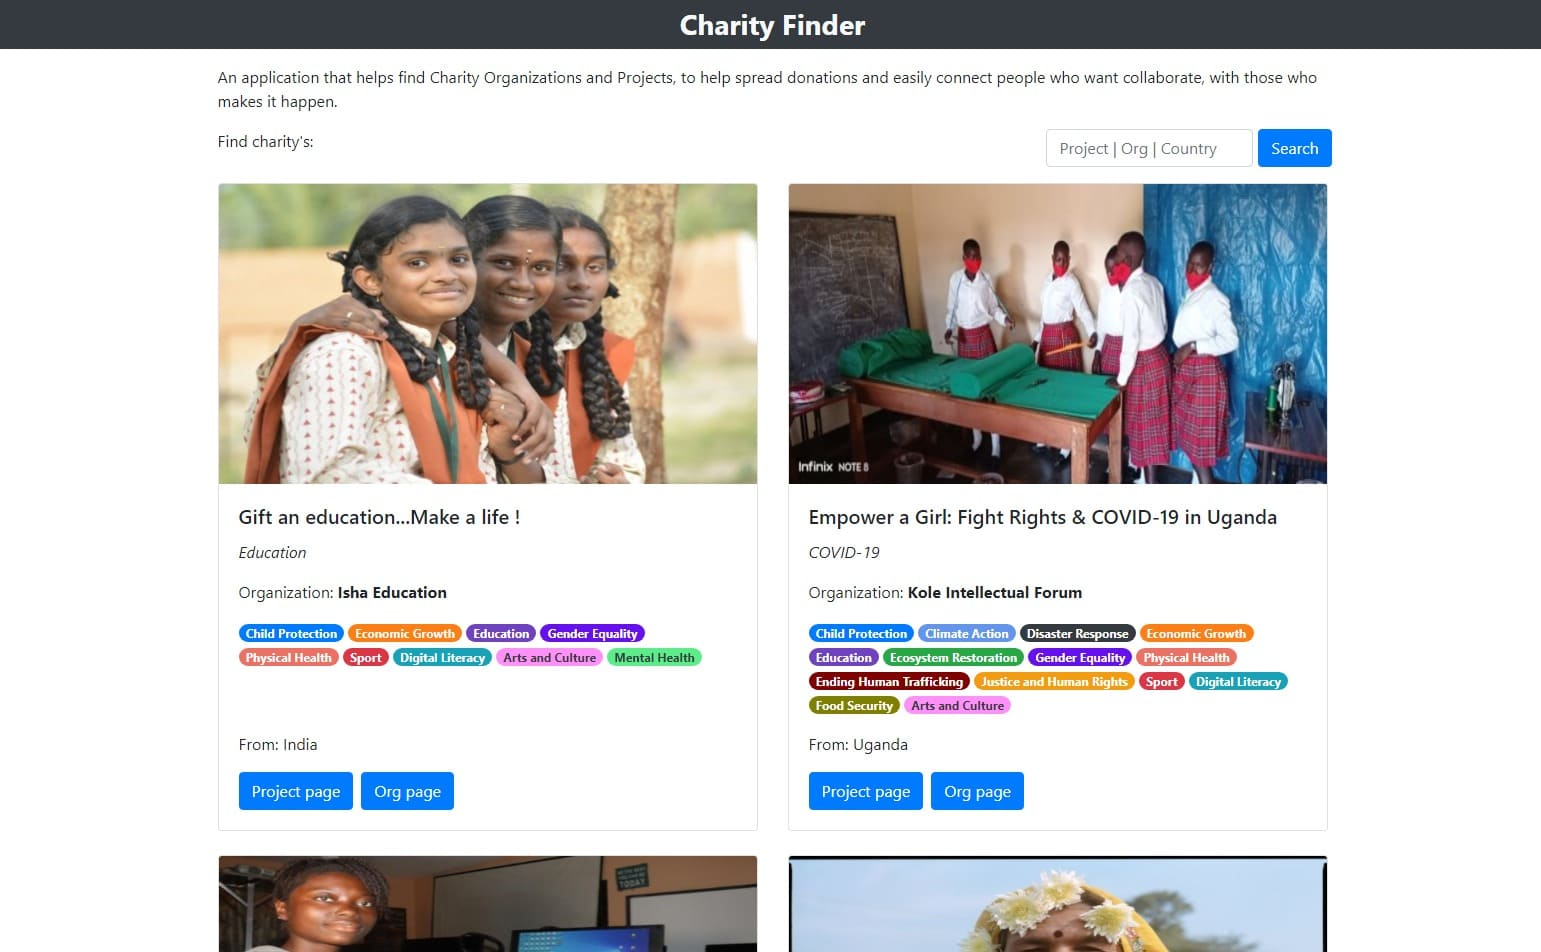
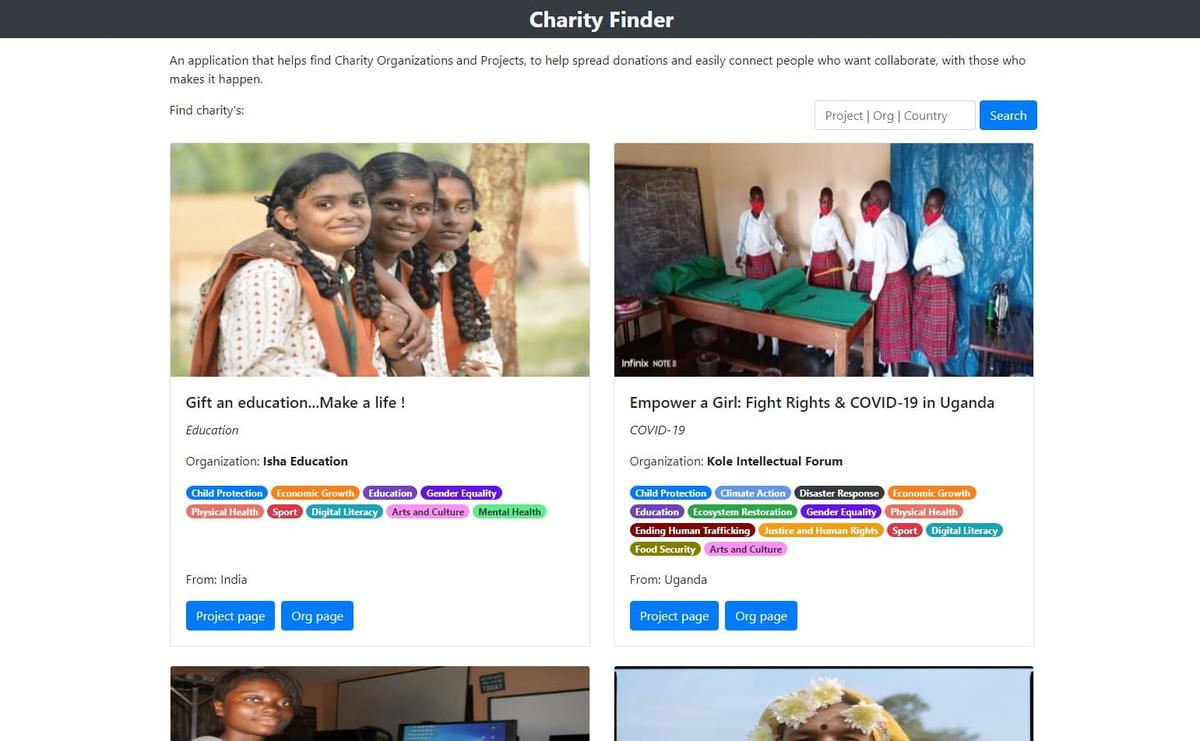
perf: imporoved performance based on lighthouse report

diff --git a/src/app/regular/home/home.component.html b/src/app/regular/home/home.component.html
@@ -1006,12 +1006,15 @@
                 <img [ngSrc]="project.img" [alt]="project.title" [priority]="i === 0" fill />
               </div>
               <div class="text">
-                <h4 class="title">{{ project.title }}</h4>
+                <h3 class="title">{{ project.title }}</h3>
                 <p>{{ project.caption }}</p>
               </div>
             </div>
           }
-          <a class="prev has-dflex-center"
+          <button
+            type="button"
+            class="prev has-dflex-center"
+            [attr.aria-label]="'previousProject' | translate"
             ><svg
             aria-hidden="true"
             focusable="false"
@@ -1025,8 +1028,11 @@
             <path
               fill="currentColor"
               d="M31.7 239l136-136c9.4-9.4 24.6-9.4 33.9 0l22.6 22.6c9.4 9.4 9.4 24.6 0 33.9L127.9 256l96.4 96.4c9.4 9.4 9.4 24.6 0 33.9L201.7 409c-9.4 9.4-24.6 9.4-33.9 0l-136-136c-9.5-9.4-9.5-24.6-.1-34z"
-            ></path></svg></a
-            ><a class="next has-dflex-center"
+            ></path></svg></button
+            ><button
+            type="button"
+            class="next has-dflex-center"
+            [attr.aria-label]="'nextProject' | translate"
             ><svg
             aria-hidden="true"
             focusable="false"
@@ -1041,7 +1047,7 @@
               fill="currentColor"
               d="M224.3 273l-136 136c-9.4 9.4-24.6 9.4-33.9 0l-22.6-22.6c-9.4-9.4-9.4-24.6 0-33.9l96.4-96.4-96.4-96.4c-9.4-9.4-9.4-24.6 0-33.9L54.3 103c9.4-9.4 24.6-9.4 33.9 0l136 136c9.5 9.4 9.5 24.6.1 34z"
             ></path></svg
-          ></a>
+          ></button>
         </div>
         <a routerLink="/projects"
           ><button data-cy="see-all" class="btn">

diff --git a/src/app/regular/footer/footer.component.html b/src/app/regular/footer/footer.component.html
@@ -8,8 +8,9 @@
       >
         <img
           class="logo"
-          width="137px"
-          src="./assets/images/logo.png"
+          width="137"
+          height="58"
+          src="./assets/images/logos/samyrdev.webp"
           alt="Samyr dev logo"
         />
       </a>
@@ -32,7 +33,7 @@
           href="https://www.linkedin.com/in/samyr-ribeiro"
           target="_blank"
           class="icon"
-          name="LinkedIn"
+          aria-label="LinkedIn"
           rel="noopener"
         >
           <svg xmlns="http://www.w3.org/2000/svg" viewBox="0 0 128 128">
@@ -46,7 +47,7 @@
           href="https://github.com/SamyrOR"
           target="_blank"
           class="icon"
-          name="GitHub"
+          aria-label="GitHub"
           rel="noopener"
         >
           <svg xmlns="http://www.w3.org/2000/svg" viewBox="0 0 128 128">
@@ -66,7 +67,7 @@
           href="https://pt.stackoverflow.com/users/189079/samyr"
           target="_blank"
           class="icon"
-          name="Stack Overflow"
+          aria-label="Stack Overflow"
           rel="noopener"
         >
           <svg
@@ -84,7 +85,7 @@
           href="https://www.hackerrank.com/saamyr?hr_r=1"
           target="_blank"
           class="icon"
-          name="HackerRank"
+          aria-label="HackerRank"
           rel="noopener"
         >
           <svg
@@ -102,7 +103,7 @@
           href="https://codepen.io/samyror"
           target="_blank"
           class="icon"
-          name="CodePen"
+          aria-label="CodePen"
           rel="noopener"
         >
           <svg

diff --git a/src/assets/styles/modules/_carousel.scss b/src/assets/styles/modules/_carousel.scss
@@ -72,13 +72,19 @@
 
   .prev,
   .next {
-    width: 2rem;
-    height: 2rem;
+    width: 2.75rem;
+    height: 2.75rem;
     padding: 0.3125rem;
     position: absolute;
-    top: calc(50% - 1rem);
+    top: calc(50% - 1.375rem);
     user-select: none;
     font-size: 1rem;
+    background: none;
+    border: none;
+    cursor: pointer;
+    display: flex;
+    align-items: center;
+    justify-content: center;
     @include theme() {
       color: theme-get("color-neutral");
     }
@@ -107,23 +113,36 @@
   }
 
   .dots {
+    position: absolute;
+    top: 0.75rem;
+    left: 0;
+    right: 0;
+    z-index: 1;
     padding: 0.9375rem;
     display: flex;
     align-items: center;
     justify-content: center;
 
     .dot {
-      width: 0.625rem;
-      height: 0.625rem;
-      margin: 0 0.125rem;
-      display: inline-block;
+      width: 1.5rem;
+      height: 1.5rem;
+      display: inline-flex;
+      align-items: center;
+      justify-content: center;
       cursor: pointer;
-      border-radius: 50%;
-      background-color: #bbb;
-      transition: background-color 0.6s ease;
+      background: none;
 
-      &:focus,
-      &:hover {
+      &::before {
+        content: "";
+        width: 0.625rem;
+        height: 0.625rem;
+        border-radius: 50%;
+        background-color: #bbb;
+        transition: background-color 0.6s ease;
+      }
+
+      &:focus::before,
+      &:hover::before {
         background-color: #717171;
       }
     }

diff --git a/src/assets/styles/modules/_card.scss b/src/assets/styles/modules/_card.scss
@@ -1,7 +1,8 @@
 @use "../abstracts/" as *;
 @use "sass:color";
 
-a.btn {
+a.btn,
+span.btn {
   position: relative;
   padding: rem(6) rem(30) rem(8);
   text-decoration: none;
@@ -9,14 +10,17 @@ a.btn {
   transition: all 0.1s 0s ease-out;
 }
 
-.no-touch a.btn:hover {
+.no-touch a.btn:hover,
+.no-touch span.btn:hover {
   box-shadow: 0 rem(8) rem(2) 0 rgba(0, 0, 0, 0.075);
   transform: translateY(-2px);
   transition: all 0.25s 0s ease-out;
 }
 
 .no-touch a.btn:active,
-a.btn:active {
+a.btn:active,
+.no-touch span.btn:active,
+span.btn:active {
   box-shadow: 0 rem(1) 0 0 rgba(255, 255, 255, 0.25);
   transform: translate3d(0, 1px, 0);
   transition: all 0.025s 0s ease-out;
@@ -72,7 +76,7 @@ div.card {
       background-color: theme-get("color-card-bg");
     }
 
-    a.toggle-info {
+    .toggle-info {
       position: absolute;
       top: rem(10);
       right: rem(15);
@@ -174,7 +178,7 @@ div.card.show {
   div.card-title {
     border-bottom-left-radius: 0;
     border-bottom-right-radius: 0;
-    a.toggle-info {
+    .toggle-info {
       background: $salmon;
       span {
         top: rem(15);

diff --git a/src/app/regular/header/header.component.ts b/src/app/regular/header/header.component.ts
@@ -68,14 +68,14 @@ export class HeaderComponent implements OnInit {
       document.documentElement.classList.remove('light-theme');
       document.documentElement.classList.add('dark-theme');
       this.logos.forEach((logo) =>
-        logo.setAttribute('src', './assets/images/logos/samyrdev-dark.png'),
+        logo.setAttribute('src', './assets/images/logos/samyrdev-dark.webp'),
       );
     } else {
       this.transition();
       document.documentElement.classList.add('light-theme');
       document.documentElement.classList.remove('dark-theme');
       this.logos.forEach((logo) =>
-        logo.setAttribute('src', './assets/images/logos/samyrdev.png'),
+        logo.setAttribute('src', './assets/images/logos/samyrdev.webp'),
       );
     }
     localStorage.setItem('selected-theme', this.isDarkTheme() ? 'dark' : 'light');

diff --git a/src/app/projects/projects.component.html b/src/app/projects/projects.component.html
@@ -25,10 +25,10 @@
               <img class="card__image" [ngSrc]="project.img" [alt]="project.title" [priority]="i === 0" fill />
             </div>
             <div class="card-title">
-              <a class="toggle-info btn">
+              <span class="toggle-info btn" aria-hidden="true">
                 <span class="left"></span>
                 <span class="right"></span>
-              </a>
+              </span>
               <h2>
                 {{ project.title }}
                 <small>{{ project.caption }}</small>

diff --git a/src/index.html b/src/index.html
@@ -43,7 +43,7 @@
     <link rel="preconnect" href="https://fonts.googleapis.com" />
     <link rel="preconnect" href="https://fonts.gstatic.com" crossorigin />
     <link
-      href="https://fonts.googleapis.com/css2?family=Montserrat&display=swap"
+      href="https://fonts.googleapis.com/css2?family=Montserrat&display=optional"
       rel="stylesheet"
     />
   </head>

diff --git a/src/app/regular/header/header.component.html b/src/app/regular/header/header.component.html
@@ -3,8 +3,9 @@
     <a [routerLink]="['/home']" routerLinkActive="active">
       <img
         class="logo"
-        width="137px"
-        src="./assets/images/logos/samyrdev.png"
+        width="137"
+        height="58"
+        src="./assets/images/logos/samyrdev.webp"
         alt="Samyr dev logo"
       />
     </a>

diff --git a/src/app/about-me/about-me.component.html b/src/app/about-me/about-me.component.html
@@ -5,6 +5,8 @@
         class="profile__img"
         src="../../assets/images/img-perfil.jpg"
         alt="Perfil"
+        width="200"
+        height="211"
       />
       <h3 data-cy="title" class="profile__name">Samyr Oliveira Ribeiro</h3>
       <p class="profile__desc">Front-end developer</p>

diff --git a/src/assets/styles/modules/_buttons.scss b/src/assets/styles/modules/_buttons.scss
@@ -10,7 +10,9 @@
   font-weight: 600;
   border-radius: rem(25);
   border: none;
-  transition: all 250ms ease-out;
+  transition:
+    transform 250ms ease-out,
+    opacity 250ms ease-out;
   @include theme() {
     background: linear-gradient(
       to top right,

diff --git a/src/assets/styles/layout/_certificate.scss b/src/assets/styles/layout/_certificate.scss
@@ -37,6 +37,9 @@
   }
   &__img {
     margin-top: rem(20);
+    width: 100%;
+    aspect-ratio: 4 / 3;
+    object-fit: contain;
     @include sm {
       max-width: rem(480);
     }

diff --git a/src/assets/styles/layout/_footer.scss b/src/assets/styles/layout/_footer.scss
@@ -85,6 +85,7 @@
   }
   &__by,
   &__by:visited {
+    text-decoration: underline;
     @include theme() {
       color: theme-get("color-link-active");
     }
